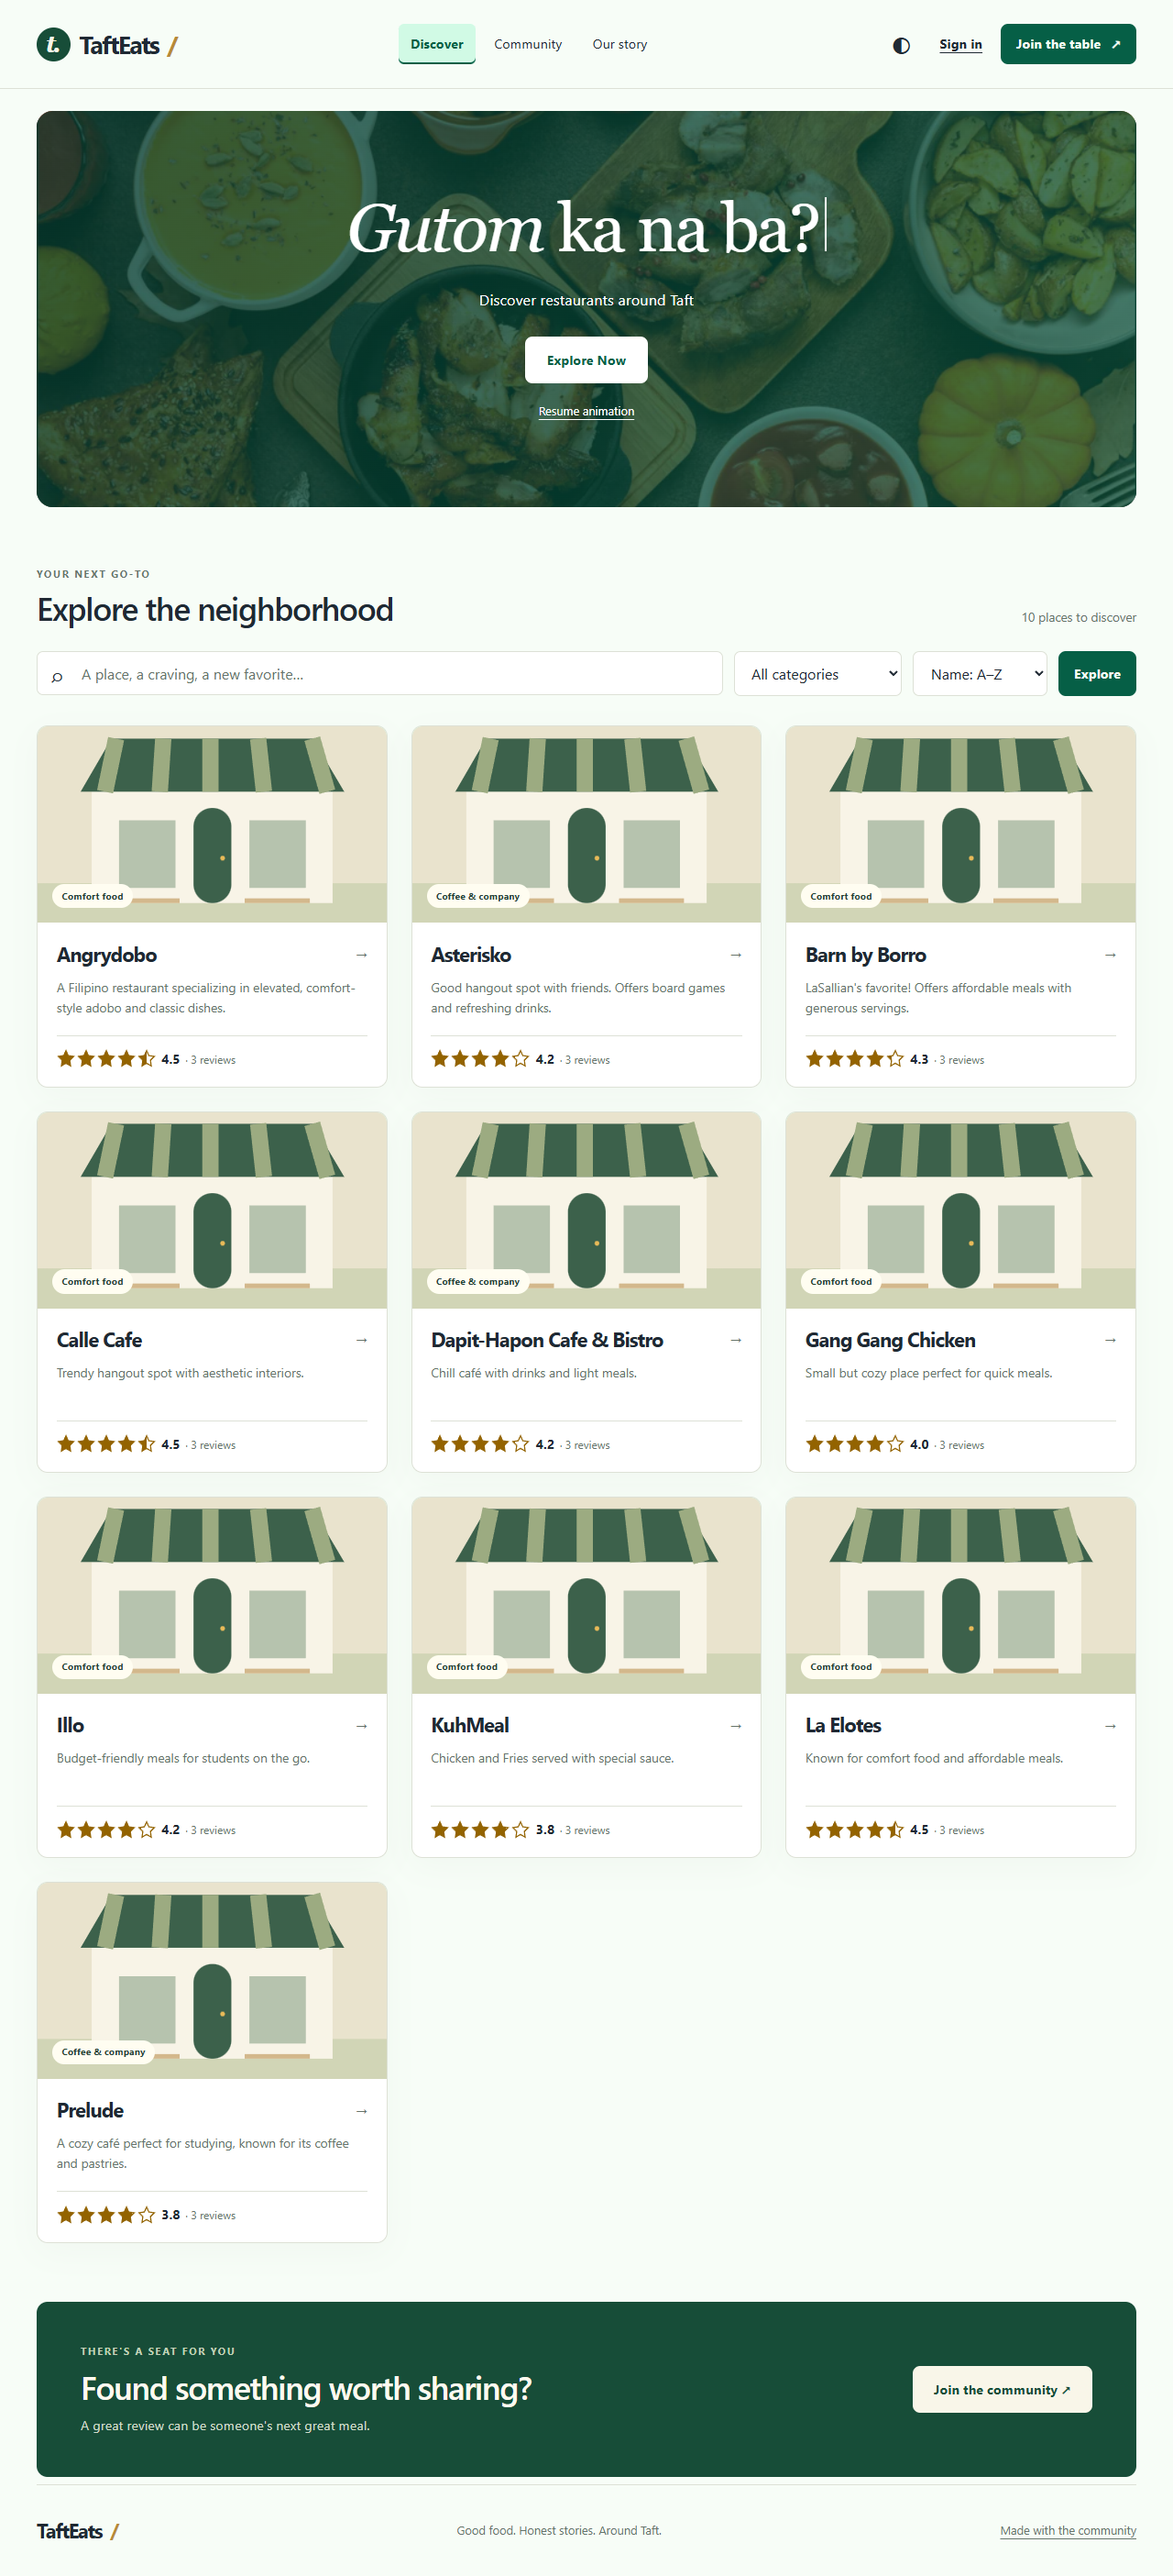
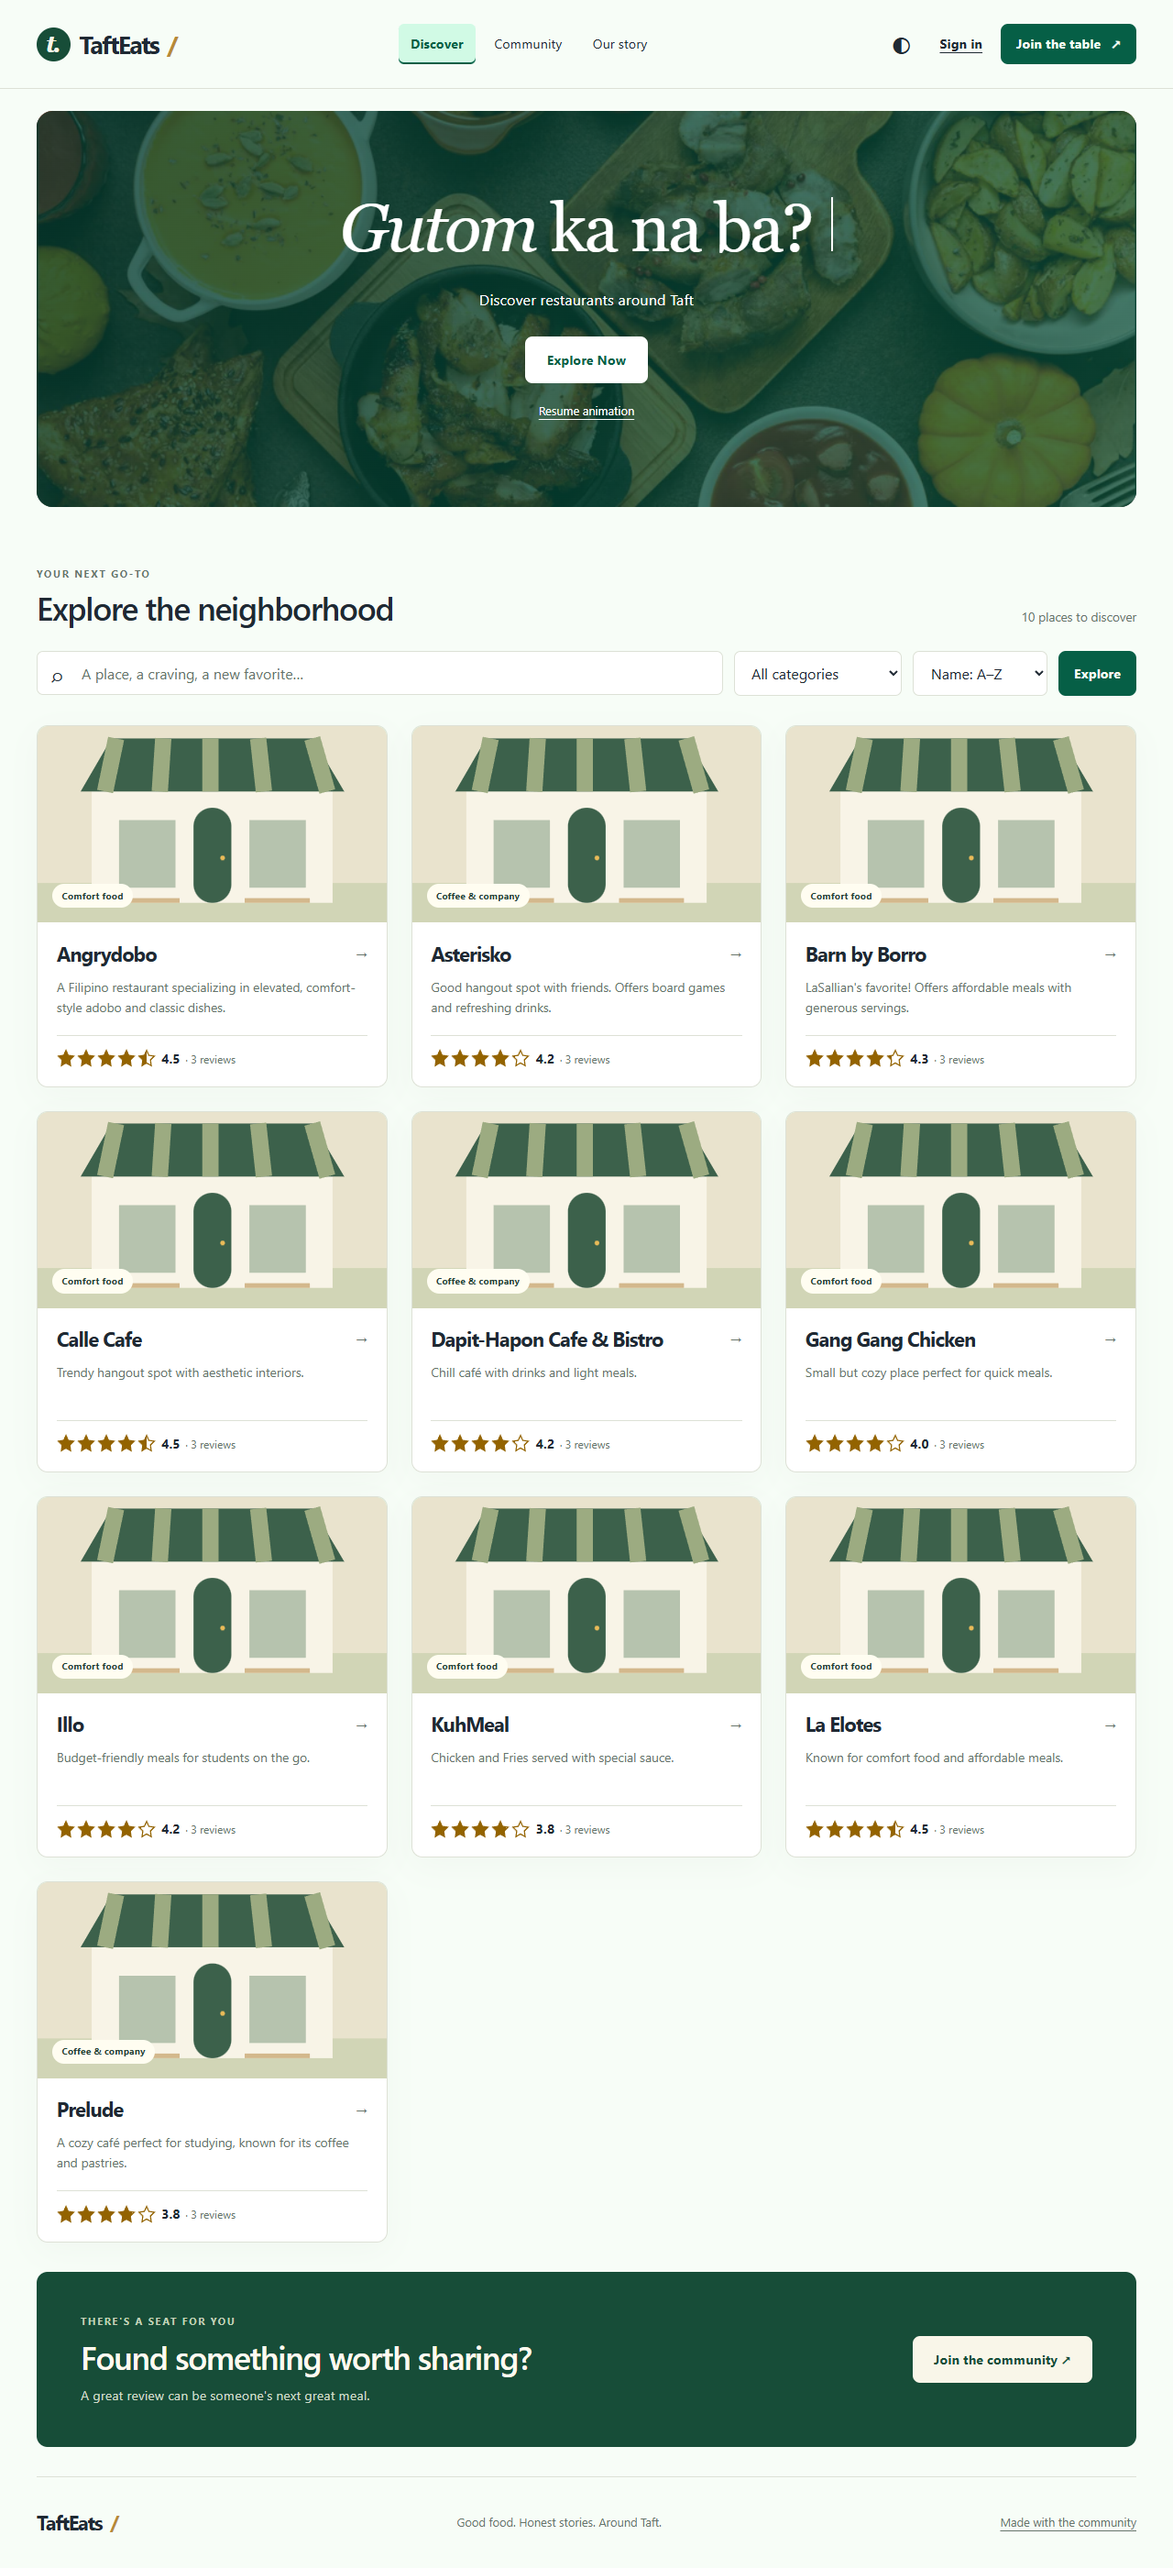
docs: update project layout, team links, and copy
- Add directory tree diagram and preserve module explanations in README

- Add contributor profile links in README

- Refine wording and grammar on About page and open external links in a new tab

- Adjust community banner and pagination vertical margins

- Synchronize browser test assertions with updated copy and link targets

diff --git a/tests/browser/flows.spec.js b/tests/browser/flows.spec.js
@@ -265,15 +265,16 @@ test('card hit areas and current-page navigation work with pointer and keyboard 
     .locator('.about-page')
     .evaluate((element) => element.getBoundingClientRect().width);
   expect(width).toBe(1200);
-  await expect(page.getByRole('link', { name: 'Visit the original CCAPDEV site' })).toHaveAttribute(
-    'href',
-    'https://taft-eats.vercel.app',
+  const ccapdevLink = page.getByRole('link', { name: 'Visit the original CCAPDEV site' });
+  await expect(ccapdevLink).toHaveAttribute('href', 'https://taft-eats.vercel.app');
+  await expect(ccapdevLink).toHaveAttribute('target', '_blank');
+
+  const portfolioLink = page.getByRole('link', { name: 'My web portfolio' });
+  await expect(portfolioLink).toHaveAttribute('href', 'https://buklet.vercel.app');
+  await expect(portfolioLink).toHaveAttribute('target', '_blank');
+  await expect(page.locator('.about-origin')).toContainText(
+    'made and is maintained by me, Bullet Fernandez',
   );
-  await expect(page.getByRole('link', { name: "Bullet's portfolio" })).toHaveAttribute(
-    'href',
-    'https://buklet.vercel.app',
-  );
-  await expect(page.locator('.about-origin')).toContainText('developed and maintained by Bullet');
   await page.screenshot({ path: path.resolve('.cache/ui/about-desktop.png'), fullPage: true });
   for (const viewportWidth of [320, 768, 1280]) {
     await page.setViewportSize({ width: viewportWidth, height: 900 });

diff --git a/src/public/css/style.css b/src/public/css/style.css
@@ -554,7 +554,8 @@ input[type='file']::file-selector-button {
   background: #174d38;
   color: #fffaf0;
   border-radius: 12px;
-  margin-top: 4rem;
+  margin-top: 2rem;
+  margin-bottom: 2rem;
   padding: 2.8rem 3rem;
 }
 .community-banner .eyebrow {
@@ -875,6 +876,7 @@ fieldset {
   justify-content: center;
   align-items: center;
   margin-top: 2rem;
+  margin-bottom: 2rem;
   font-size: 0.85rem;
 }
 .empty-state {
@@ -1129,7 +1131,8 @@ fieldset {
     flex-direction: column;
     align-items: start;
     padding: 2rem;
-    margin-top: 2.5rem;
+    margin-top: 2rem;
+    margin-bottom: 2rem;
   }
   .site-footer {
     flex-direction: column;

diff --git a/README.md b/README.md
@@ -65,6 +65,28 @@ See [architecture](docs/ARCHITECTURE.md), [security](SECURITY.md), the [migratio
 ## Project structure
 
 ```text
+├───database
+├───docs
+├───scripts
+├───src
+│   ├───config
+│   ├───controllers
+│   ├───lib
+│   ├───middleware
+│   ├───models
+│   ├───public
+│   │   ├───css
+│   │   ├───images
+│   │   └───js
+│   ├───routes
+│   ├───services
+│   └───views
+├───test-results
+└───tests
+    └───browser
+```
+
+```text
 app.js                    Local/serverless entry point
 src/app.js                Express app factory; middleware and rendering
 src/server.js             Lazy connection, persistent sessions, runtime lifecycle
@@ -83,8 +105,8 @@ tests/                    Unit, real MongoDB HTTP, and browser regression tests
 
 ## Development
 
-The current application is developed and maintained by **Bullet** ([portfolio](https://buklet.vercel.app)).
+The current application was made and is maintained by me, **Bullet Fernandez** ([my web portfolio](https://buklet.vercel.app)).
 
-The original CCAPDEV course project was created by **Clyde** (frontend), **Jasper** (backend), **Bullet** (full stack), and **Ella** (project management).
+The original CCAPDEV course project was created by [**Clyde**](https://github.com/Cydle617) (frontend), [**Jasper**](https://github.com/HexadecsTrtl) (backend), **Bullet** (full stack), and [**Ella**](https://github.com/dzuhnee) (project management).
 
 This application is maintained in the private [TaftEats repository](https://github.com/bukleeet/TaftEats), with `main` as its production branch and [tafteats.vercel.app](https://tafteats.vercel.app) as its production address. The original academic project is preserved separately in [CCAPDEV_Resto-Review-App](https://github.com/bukleeet/CCAPDEV_Resto-Review-App). The October 4, 2026 release includes verified credential rotation, a backed-up staging and production migration, and a real Cloudinary upload/delete check. See the [release checklist](docs/RELEASE.md) for verification and remaining operational work.
